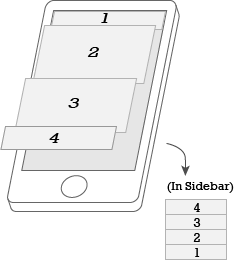
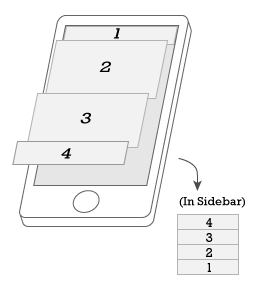
fixed instructions placement, removed flex

Changed region(s): [[0.0, 0.0, 1.0, 1.0], [0.2979, 0.3678, 0.3574, 0.4291]]

diff --git a/public/css/default.css b/public/css/default.css
@@ -318,36 +318,17 @@ button.danger:hover {
 
 .instruction-overlay .content .instruction-content {
   margin: 1.25em 0;
-  display: -webkit-box;
-  display: -ms-flexbox;
-  display: -webkit-flex;
-  display: flex;
-  -webkit-box-orient: horizontal;
-  -webkit-box-direction: normal;
-  -ms-flex-direction: row;
-  -webkit-flex-direction: row;
-  flex-direction: row;
 }
 .instruction-overlay .content .instruction-content .instruction-image {
-  -webkit-box-flex: 1;
-  -ms-flex: 1;
-  -webkit-flex: 1;
-  flex: 1;
-  display: -webkit-box;
-  display: -ms-flexbox;
-  display: -webkit-flex;
-  display: flex;
-  -webkit-box-pack: center;
-  -ms-flex-pack: center;
-  -webkit-justify-content: center;
-  justify-content: center;
+  width: 260px;
+  display: inline-block;
+  vertical-align: top;
   vertical-align: top;
 }
 .instruction-overlay .content .instruction-content .instruction-message {
-  -webkit-box-flex: 2;
-  -ms-flex: 2;
-  -webkit-flex: 2;
-  flex: 2;
+  width: 500px;
+  display: inline-block;
+  vertical-align: top;
 }
 
 .edit-overlay .window {

diff --git a/public/scss/default.scss b/public/scss/default.scss
@@ -332,16 +332,22 @@ $previewContentWidth: $previewWidth - $handleWidth;
 	.content{
 		.instruction-content{
 			margin: 1.25em 0;
-			@include display(flex);
-			@include flex-direction(row);
+			//@include display(flex);
+			//@include flex-direction(row);
 			.instruction-image{
-				@include flex(1);
-				@include display(flex);
-				@include justify-content(center);
+				width: 260px;
+				display: inline-block;
+				vertical-align: top;
+				//@include flex(1);
+				//@include display(flex);
+				//@include justify-content(center);
 				vertical-align: top;
 			}
 			.instruction-message{
-				@include flex(2);
+				width:500px;
+				display: inline-block;
+				vertical-align: top;
+				//@include flex(2);
 			}
 		}
 	}
